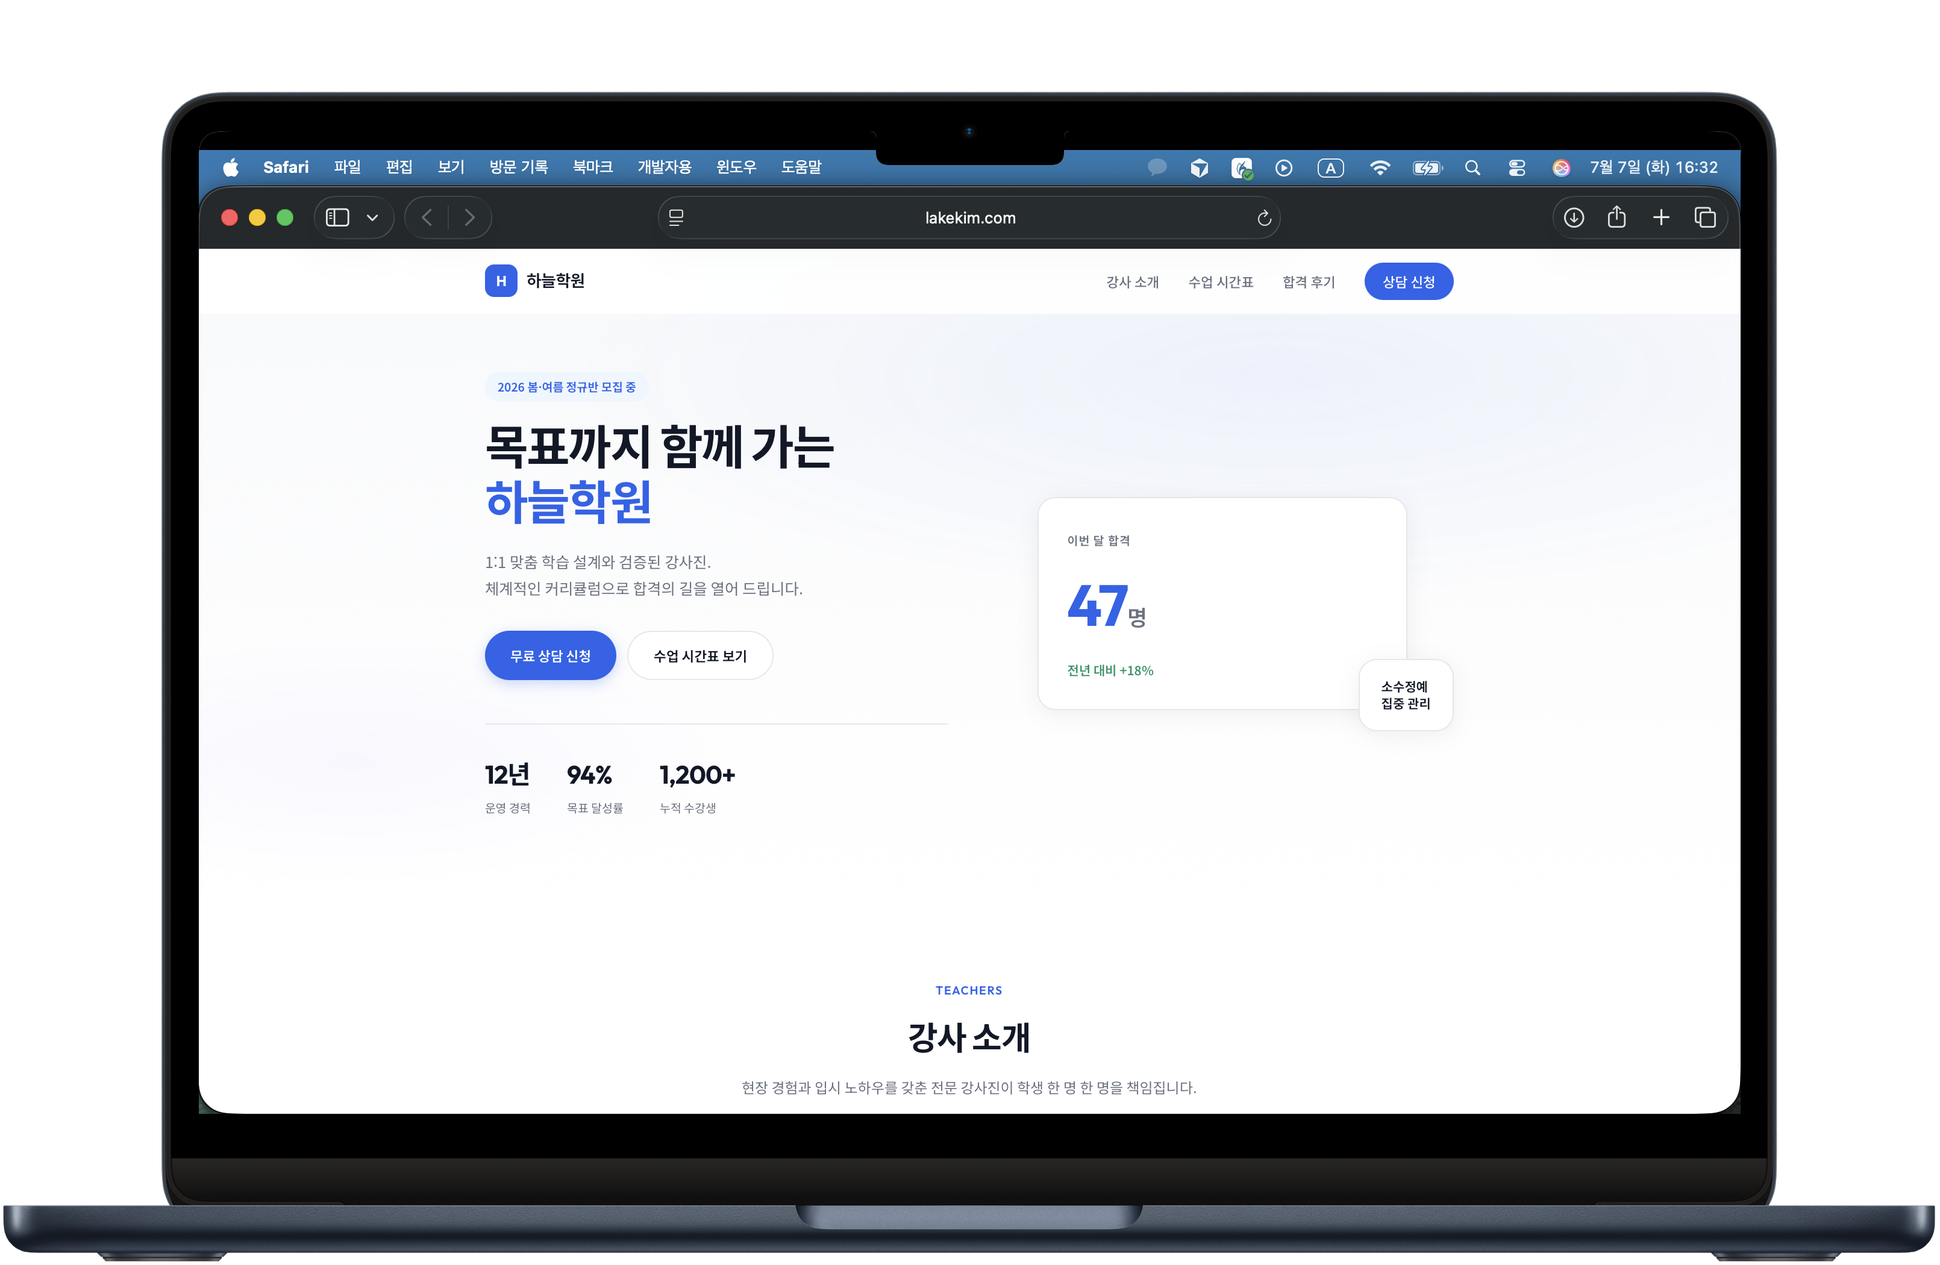
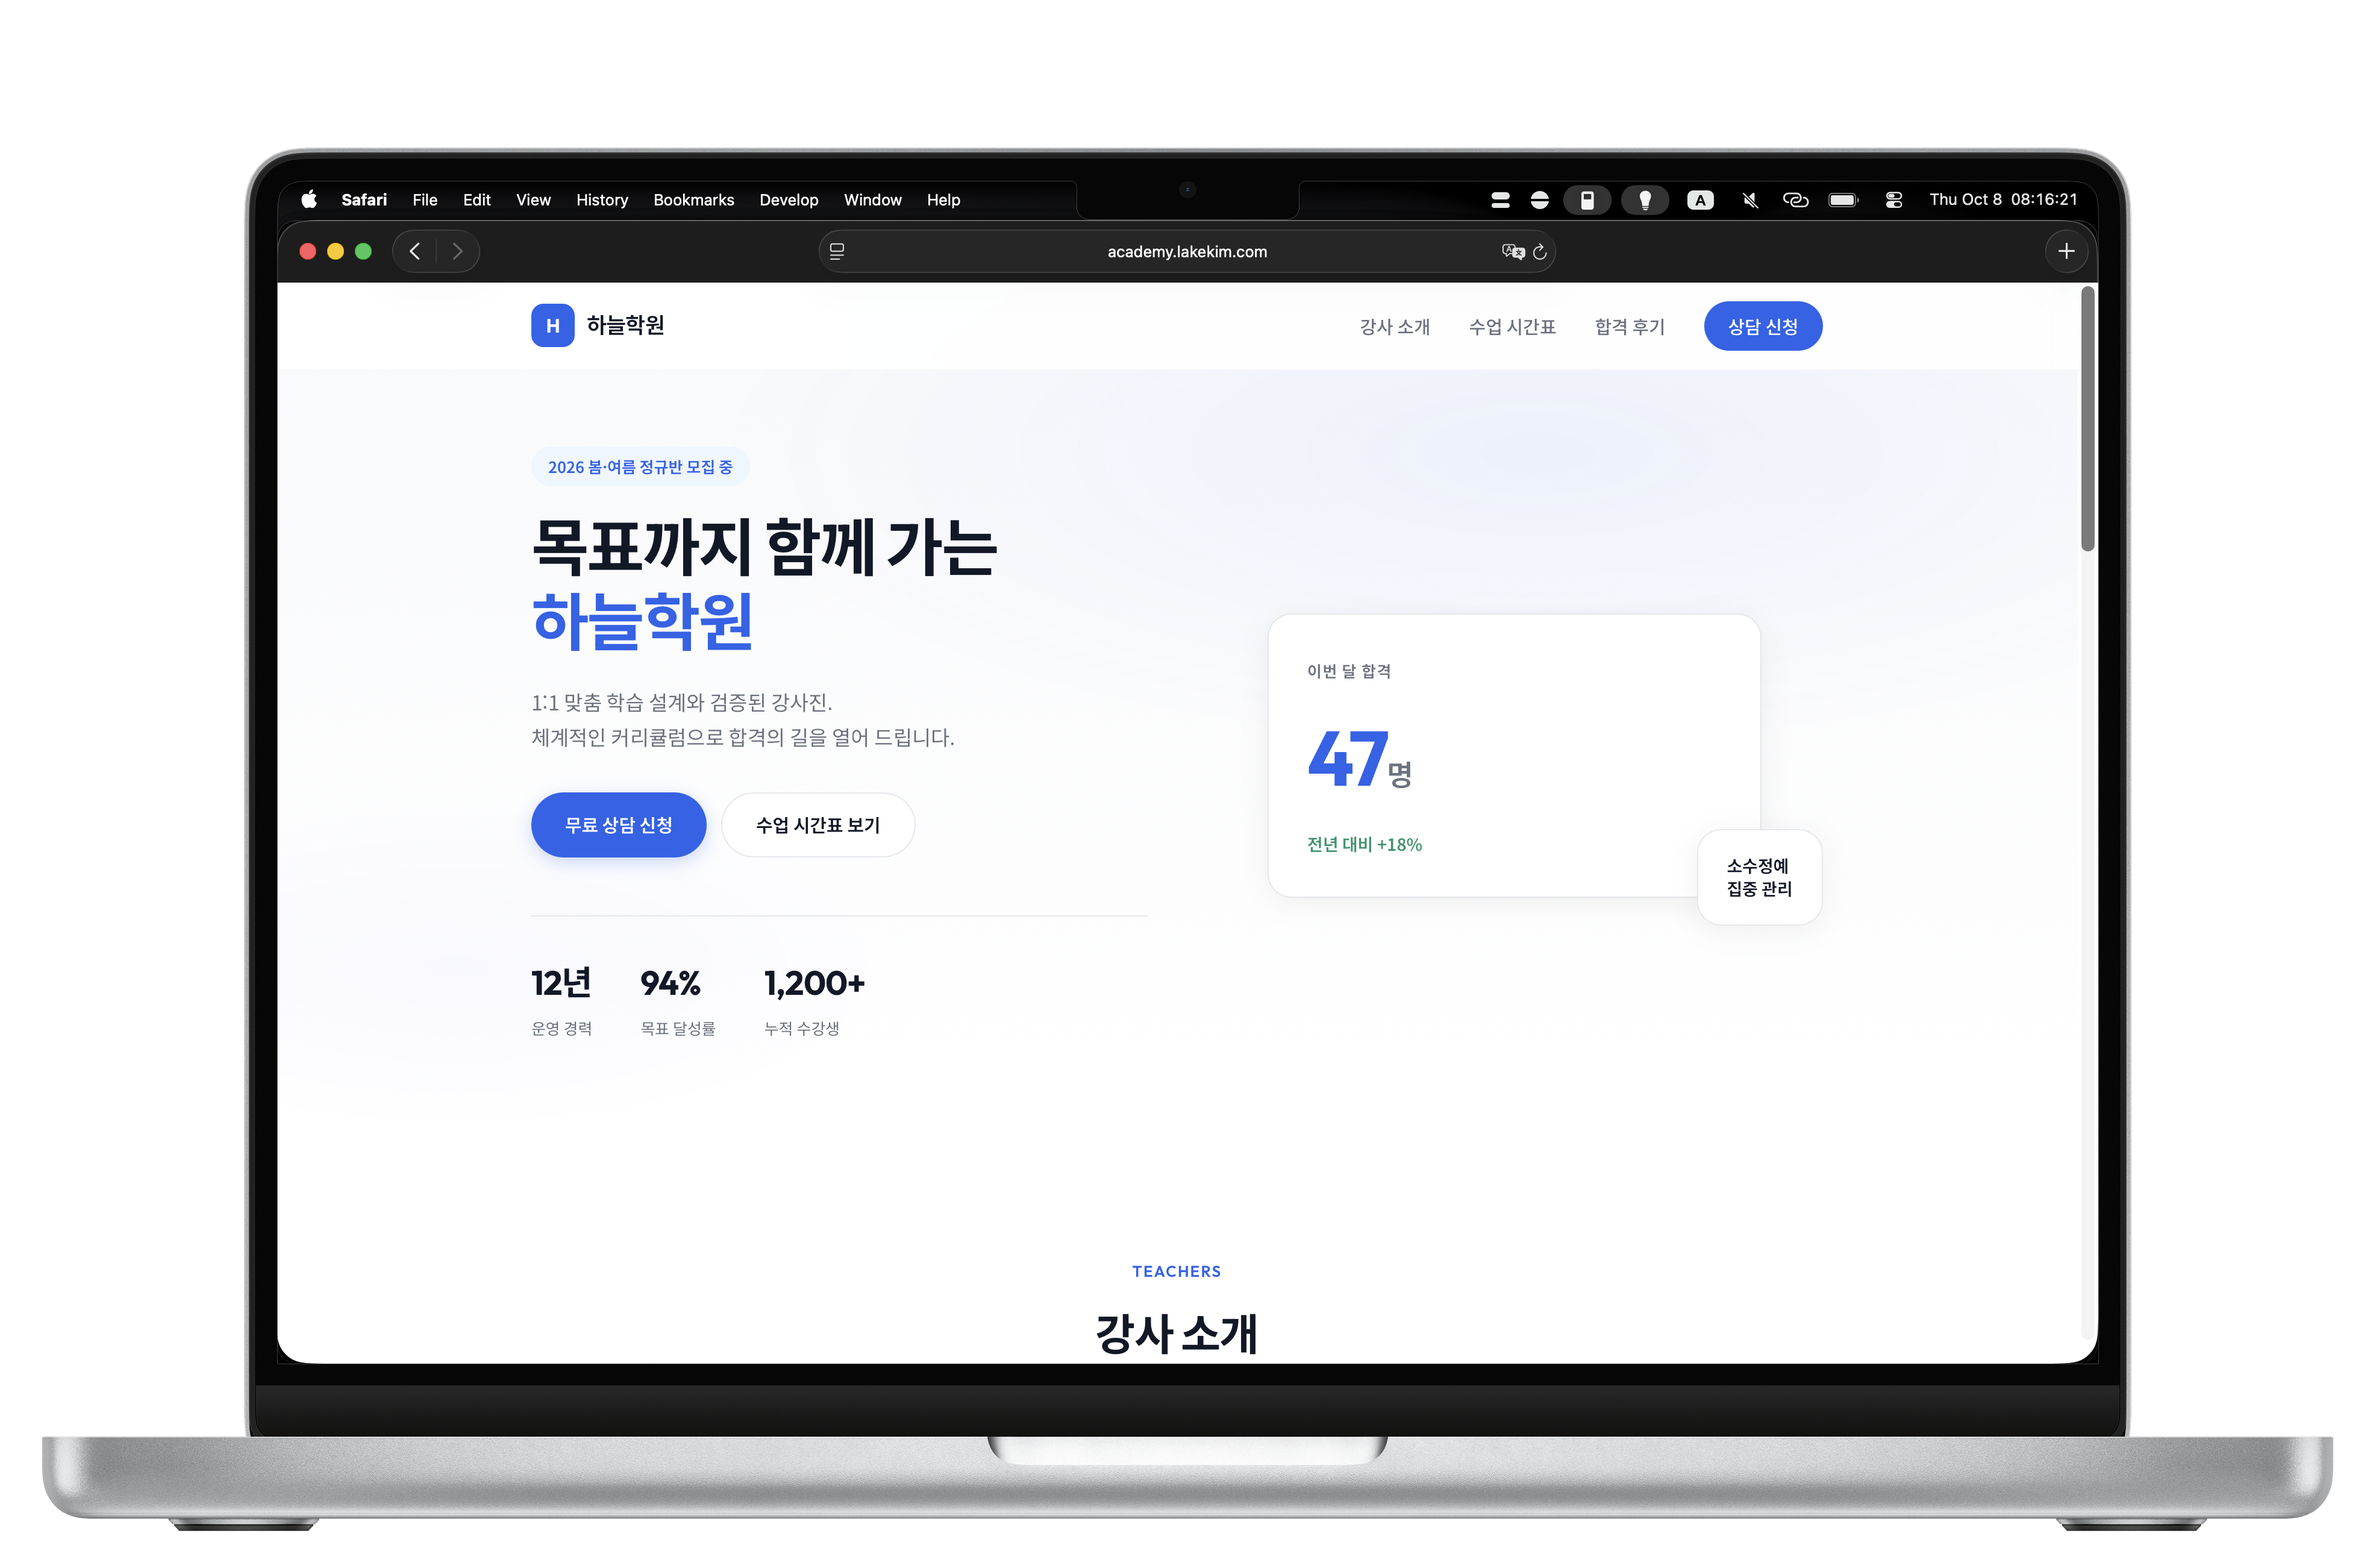
Update portfolio project screenshots

diff --git a/index.html b/index.html
@@ -155,7 +155,7 @@
           <article class="project-card reveal">
             <div class="project-card-media">
               <a href="projects/matcha-mall" class="project-image-link" aria-label="말차몰 상세 보기">
-                <img src="images/projects/matcha-mall.png" alt="말차몰 프로젝트 미리보기" class="project-image"
+                <img src="images/projects/matcha-mall.png?v=20261008" alt="말차몰 프로젝트 미리보기" class="project-image"
                   loading="lazy" width="640" height="360">
               </a>
             </div>
@@ -183,7 +183,7 @@
           <article class="project-card reveal">
             <div class="project-card-media">
               <a href="projects/academy-website" class="project-image-link" aria-label="학원 홈페이지 상세 보기">
-                <img src="images/projects/academy-website.png" alt="학원 홈페이지 프로젝트 미리보기" class="project-image"
+                <img src="images/projects/academy-website.png?v=20261008" alt="학원 홈페이지 프로젝트 미리보기" class="project-image"
                   loading="lazy" width="640" height="360">
               </a>
             </div>
@@ -211,7 +211,7 @@
           <article class="project-card reveal">
             <div class="project-card-media">
               <a href="projects/bokshil-cafe" class="project-image-link" aria-label="Bokshil Café 상세 보기">
-                <img src="images/projects/bokshil-cafe.png" alt="Bokshil Café 프로젝트 미리보기" class="project-image"
+                <img src="images/projects/bokshil-cafe.png?v=20261008" alt="Bokshil Café 프로젝트 미리보기" class="project-image"
                   loading="lazy" width="640" height="360">
               </a>
             </div>
@@ -239,7 +239,7 @@
           <article class="project-card reveal">
             <div class="project-card-media">
               <a href="projects/restaurant-kiosk" class="project-image-link" aria-label="식당 키오스크 상세 보기">
-                <img src="images/projects/restaurant-kiosk.png" alt="식당 키오스크 프로젝트 미리보기" class="project-image"
+                <img src="images/projects/restaurant-kiosk.png?v=20261008" alt="식당 키오스크 프로젝트 미리보기" class="project-image"
                   loading="lazy" width="640" height="360">
               </a>
             </div>

diff --git a/projects/restaurant-kiosk/index.html b/projects/restaurant-kiosk/index.html
@@ -47,7 +47,7 @@
     <section class="detail-content">
       <div class="container detail-grid">
         <article class="detail-block reveal"><h2 class="detail-block-title">프로젝트 소개</h2><p class="detail-text">식당 키오스크처럼 메뉴를 선택하고 장바구니에 담아 주문하는 흐름을 구현한 예시 프로젝트입니다. 터치 친화적인 UI를 목표로 제작했습니다.</p></article>
-        <article class="detail-block reveal"><h2 class="detail-block-title">스크린샷 갤러리</h2><div class="gallery-grid"><button type="button" class="gallery-item" data-lightbox-src="../../images/projects/restaurant-kiosk.png" data-lightbox-caption="메인 페이지"><div class="gallery-item__media"><img src="../../images/projects/restaurant-kiosk.png" alt="메인 페이지" loading="lazy"></div><span class="gallery-item__caption">메인 페이지</span></button></div></article>
+        <article class="detail-block reveal"><h2 class="detail-block-title">스크린샷 갤러리</h2><div class="gallery-grid"><button type="button" class="gallery-item" data-lightbox-src="../../images/projects/restaurant-kiosk.png?v=20261008" data-lightbox-caption="메인 페이지"><div class="gallery-item__media"><img src="../../images/projects/restaurant-kiosk.png?v=20261008" alt="메인 페이지" loading="lazy"></div><span class="gallery-item__caption">메인 페이지</span></button></div></article>
         <article class="detail-block reveal"><h2 class="detail-block-title">프로젝트 목적</h2><p class="detail-text">키오스크 UI의 메뉴 선택, 옵션 추가, 주문 확인 같은 실사용 흐름을 웹으로 구현하며 인터랙션 설계를 연습하는 것이 목적이었습니다.</p></article>
         <article class="detail-block reveal"><h2 class="detail-block-title">사용 기술</h2><ul class="detail-tech"><li>HTML</li><li>CSS</li><li>JavaScript</li></ul></article>
         <article class="detail-block reveal"><h2 class="detail-block-title">주요 기능</h2><ul class="detail-list"><li><span class="detail-list-marker" aria-hidden="true"></span>메뉴 카테고리 및 상품 선택</li><li><span class="detail-list-marker" aria-hidden="true"></span>장바구니 및 주문 확인</li><li><span class="detail-list-marker" aria-hidden="true"></span>터치하기 쉬운 큰 버튼 UI</li></ul></article>

diff --git a/projects/matcha-mall/index.html b/projects/matcha-mall/index.html
@@ -47,7 +47,7 @@
     <section class="detail-content">
       <div class="container detail-grid">
         <article class="detail-block reveal"><h2 class="detail-block-title">프로젝트 소개</h2><p class="detail-text">말차 제품을 소개하고 장바구니 기능을 체험할 수 있는 쇼핑몰 형태의 예시 웹사이트입니다. HTML, CSS, JavaScript만으로 프론트엔드 UI와 인터랙션을 구현했습니다.</p></article>
-        <article class="detail-block reveal"><h2 class="detail-block-title">스크린샷 갤러리</h2><div class="gallery-grid"><button type="button" class="gallery-item" data-lightbox-src="../../images/projects/matcha-mall.png" data-lightbox-caption="메인 페이지"><div class="gallery-item__media"><img src="../../images/projects/matcha-mall.png" alt="메인 페이지" loading="lazy"></div><span class="gallery-item__caption">메인 페이지</span></button></div></article>
+        <article class="detail-block reveal"><h2 class="detail-block-title">스크린샷 갤러리</h2><div class="gallery-grid"><button type="button" class="gallery-item" data-lightbox-src="../../images/projects/matcha-mall.png?v=20261008" data-lightbox-caption="메인 페이지"><div class="gallery-item__media"><img src="../../images/projects/matcha-mall.png?v=20261008" alt="메인 페이지" loading="lazy"></div><span class="gallery-item__caption">메인 페이지</span></button></div></article>
         <article class="detail-block reveal"><h2 class="detail-block-title">프로젝트 목적</h2><p class="detail-text">쇼핑몰 레이아웃, 상품 카드, 장바구니 흐름 등 실제 서비스에서 자주 쓰이는 UI 패턴을 연습하는 것이 목적이었습니다.</p></article>
         <article class="detail-block reveal"><h2 class="detail-block-title">사용 기술</h2><ul class="detail-tech"><li>HTML</li><li>CSS</li><li>JavaScript</li></ul></article>
         <article class="detail-block reveal"><h2 class="detail-block-title">주요 기능</h2><ul class="detail-list"><li><span class="detail-list-marker" aria-hidden="true"></span>상품 목록 및 상세 정보 표시</li><li><span class="detail-list-marker" aria-hidden="true"></span>장바구니 담기 및 수량 관리</li><li><span class="detail-list-marker" aria-hidden="true"></span>반응형 레이아웃</li></ul></article>

diff --git a/projects/bokshil-cafe/index.html b/projects/bokshil-cafe/index.html
@@ -47,7 +47,7 @@
     <section class="detail-content">
       <div class="container detail-grid">
         <article class="detail-block reveal"><h2 class="detail-block-title">프로젝트 소개</h2><p class="detail-text">카페 브랜드의 분위기와 메뉴, 공간을 소개하는 원페이지 랜딩 사이트 예시입니다. 감성적인 UI 표현에 초점을 맞췄습니다.</p></article>
-        <article class="detail-block reveal"><h2 class="detail-block-title">스크린샷 갤러리</h2><div class="gallery-grid"><button type="button" class="gallery-item" data-lightbox-src="../../images/projects/bokshil-cafe.png" data-lightbox-caption="메인 페이지"><div class="gallery-item__media"><img src="../../images/projects/bokshil-cafe.png" alt="메인 페이지" loading="lazy"></div><span class="gallery-item__caption">메인 페이지</span></button></div></article>
+        <article class="detail-block reveal"><h2 class="detail-block-title">스크린샷 갤러리</h2><div class="gallery-grid"><button type="button" class="gallery-item" data-lightbox-src="../../images/projects/bokshil-cafe.png?v=20261008" data-lightbox-caption="메인 페이지"><div class="gallery-item__media"><img src="../../images/projects/bokshil-cafe.png?v=20261008" alt="메인 페이지" loading="lazy"></div><span class="gallery-item__caption">메인 페이지</span></button></div></article>
         <article class="detail-block reveal"><h2 class="detail-block-title">프로젝트 목적</h2><p class="detail-text">랜딩 페이지에서 중요한 비주얼, 타이포그래피, 섹션 흐름을 연습하고 브랜드 분위기를 웹으로 표현하는 방법을 익히는 것이 목적이었습니다.</p></article>
         <article class="detail-block reveal"><h2 class="detail-block-title">사용 기술</h2><ul class="detail-tech"><li>HTML</li><li>CSS</li><li>JavaScript</li></ul></article>
         <article class="detail-block reveal"><h2 class="detail-block-title">주요 기능</h2><ul class="detail-list"><li><span class="detail-list-marker" aria-hidden="true"></span>카페 소개 및 메뉴 섹션</li><li><span class="detail-list-marker" aria-hidden="true"></span>스크롤 기반 섹션 구성</li><li><span class="detail-list-marker" aria-hidden="true"></span>반응형 레이아웃</li></ul></article>

diff --git a/projects/academy-website/index.html b/projects/academy-website/index.html
@@ -47,7 +47,7 @@
     <section class="detail-content">
       <div class="container detail-grid">
         <article class="detail-block reveal"><h2 class="detail-block-title">프로젝트 소개</h2><p class="detail-text">학원의 소개, 수업 정보, 연락처 등을 보여주는 정적 홈페이지 예시 프로젝트입니다. 정보 전달형 웹사이트의 기본 구조를 연습했습니다.</p></article>
-        <article class="detail-block reveal"><h2 class="detail-block-title">스크린샷 갤러리</h2><div class="gallery-grid"><button type="button" class="gallery-item" data-lightbox-src="../../images/projects/academy-website.png" data-lightbox-caption="메인 페이지"><div class="gallery-item__media"><img src="../../images/projects/academy-website.png" alt="메인 페이지" loading="lazy"></div><span class="gallery-item__caption">메인 페이지</span></button></div></article>
+        <article class="detail-block reveal"><h2 class="detail-block-title">스크린샷 갤러리</h2><div class="gallery-grid"><button type="button" class="gallery-item" data-lightbox-src="../../images/projects/academy-website.png?v=20261008" data-lightbox-caption="메인 페이지"><div class="gallery-item__media"><img src="../../images/projects/academy-website.png?v=20261008" alt="메인 페이지" loading="lazy"></div><span class="gallery-item__caption">메인 페이지</span></button></div></article>
         <article class="detail-block reveal"><h2 class="detail-block-title">프로젝트 목적</h2><p class="detail-text">기관·학원 홈페이지에서 자주 사용하는 섹션 구성과 타이포그래피, 레이아웃을 익히는 것이 목적이었습니다.</p></article>
         <article class="detail-block reveal"><h2 class="detail-block-title">사용 기술</h2><ul class="detail-tech"><li>HTML</li><li>CSS</li><li>JavaScript</li></ul></article>
         <article class="detail-block reveal"><h2 class="detail-block-title">주요 기능</h2><ul class="detail-list"><li><span class="detail-list-marker" aria-hidden="true"></span>학원 소개 및 강의 안내 섹션</li><li><span class="detail-list-marker" aria-hidden="true"></span>문의/연락처 정보 제공</li><li><span class="detail-list-marker" aria-hidden="true"></span>반응형 레이아웃</li></ul></article>
